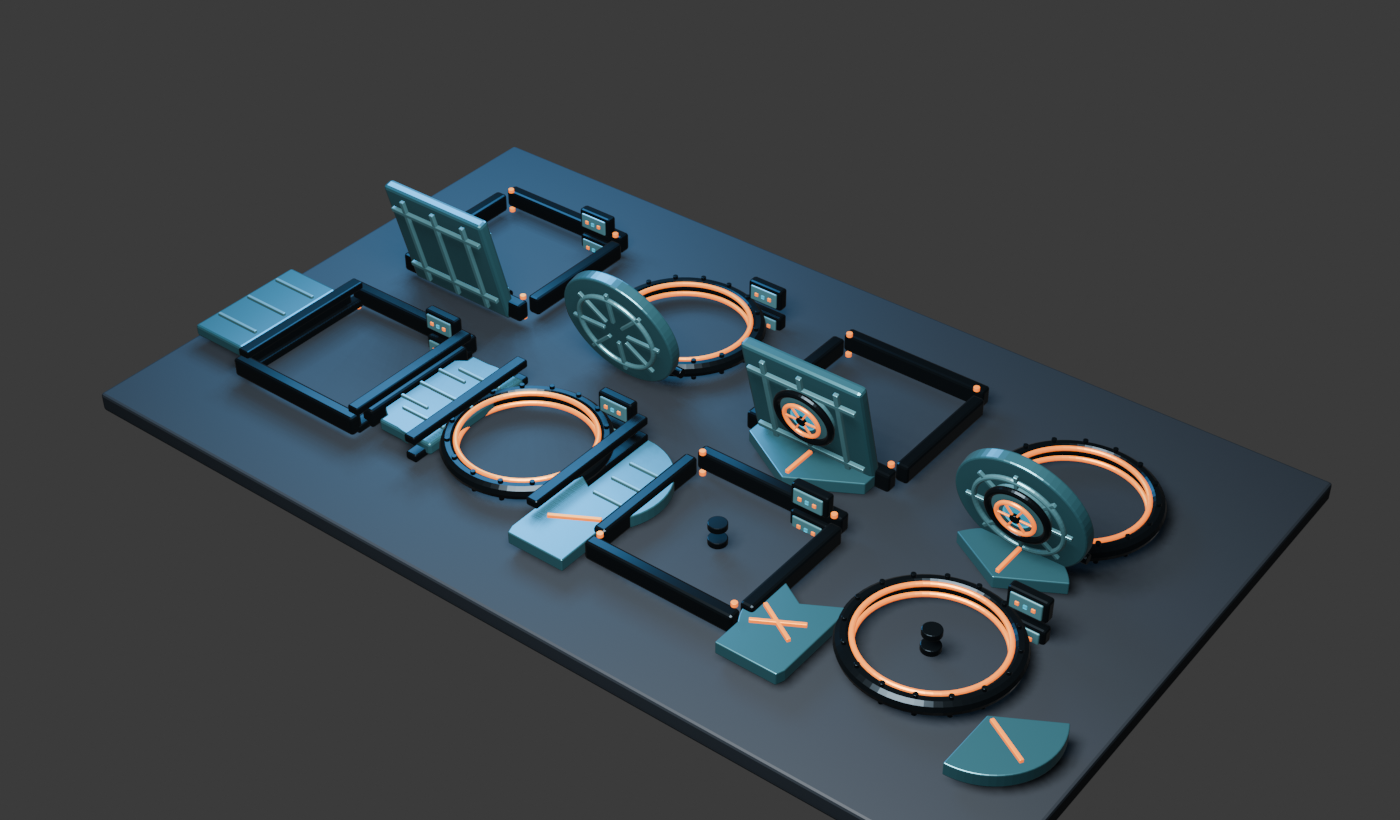
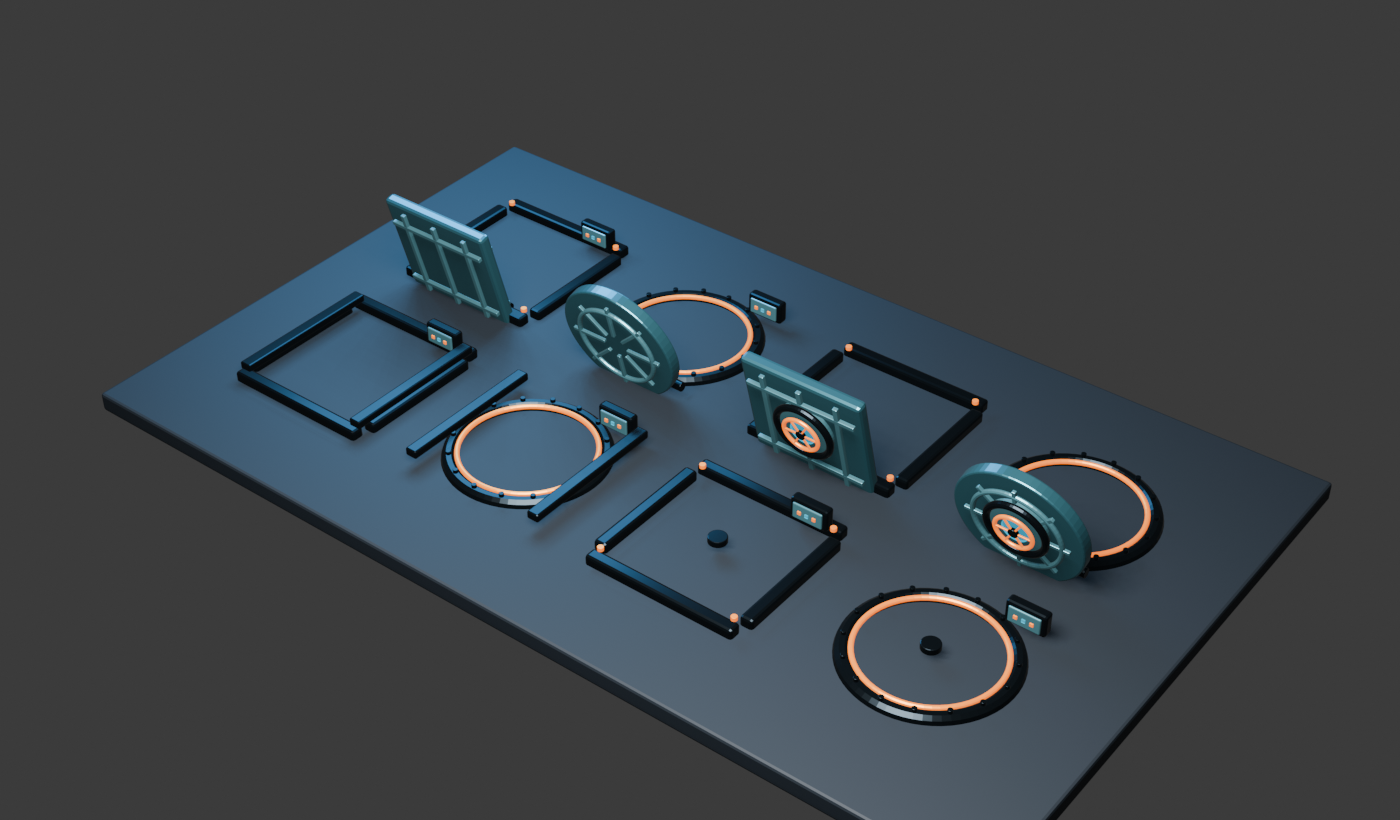
Session 162 - Ajuster les echelles et poches de trappes

Changed region(s): [[0.1229, 0.2134, 0.86, 0.9756]]

diff --git a/shared/world/verticalAccessGeometry.js b/shared/world/verticalAccessGeometry.js
@@ -2,6 +2,7 @@ const DEFAULT_STORY_HEIGHT = 2.5
 const DEFAULT_OPENING_SIZE = 1
 const CIRCLE_SEGMENTS = 48
 const LADDER_EDGE_INSET = 0.16
+const DEFAULT_LADDER_TOP_EXTENSION = 0.75
 
 const LADDER_ORIENTATIONS = Object.freeze([
   Object.freeze({ axis: 'x', side: -1 }),
@@ -55,6 +56,47 @@ export function ladderPlacementCenter(ladder, opening = null) {
   return {
     x: alongX ? x + width / 2 : x + (side > 0 ? width - inset : inset),
     z: alongX ? z + (side > 0 ? depth - inset : inset) : z + depth / 2,
+  }
+}
+
+export function ladderVisualTopY(ladder, {
+  linkedHatch = null,
+  openTopExtension = DEFAULT_LADDER_TOP_EXTENSION,
+} = {}) {
+  const bottomY = number(ladder?.y, Math.min(number(ladder?.fromY), number(ladder?.toY)))
+  const structuralTopY = Math.max(
+    bottomY,
+    number(ladder?.topY, bottomY),
+    number(ladder?.fromY, bottomY),
+    number(ladder?.toY, bottomY),
+  )
+  const hatchBottomY = Number(linkedHatch?.y)
+  if (Number.isFinite(hatchBottomY)) return Math.max(bottomY, hatchBottomY)
+  return structuralTopY + Math.max(0, number(openTopExtension, DEFAULT_LADDER_TOP_EXTENSION))
+}
+
+export function ladderVisualRange(ladder, {
+  linkedHatch = null,
+  displayLevel = null,
+  storyHeight = DEFAULT_STORY_HEIGHT,
+  openTopExtension = DEFAULT_LADDER_TOP_EXTENSION,
+} = {}) {
+  const bottomY = number(ladder?.y, Math.min(number(ladder?.fromY), number(ladder?.toY)))
+  const topY = ladderVisualTopY(ladder, { linkedHatch, openTopExtension })
+  const showsAllLevels = displayLevel === null || displayLevel === undefined
+  if (showsAllLevels) return topY > bottomY ? { bottomY, topY, height: topY - bottomY } : null
+  const level = Number(displayLevel)
+  if (!Number.isFinite(level)) return null
+  const levelHeight = positive(storyHeight, DEFAULT_STORY_HEIGHT)
+  const sliceBottom = level * levelHeight
+  const sliceTop = sliceBottom + levelHeight
+  const visibleBottomY = Math.max(bottomY, sliceBottom)
+  const visibleTopY = Math.min(topY, sliceTop)
+  if (visibleTopY <= visibleBottomY + 1e-6) return null
+  return {
+    bottomY: visibleBottomY,
+    topY: visibleTopY,
+    height: visibleTopY - visibleBottomY,
   }
 }
 

diff --git a/client/src/components/SurfaceDungeonScene.jsx b/client/src/components/SurfaceDungeonScene.jsx
@@ -48,6 +48,7 @@ import {
 } from '../../../shared/world/stairGeometry.js'
 import {
   ladderPlacementCenter,
+  ladderVisualRange,
   verticalAccessOpenings,
   verticalOpeningMultiPolygon,
 } from '../../../shared/world/verticalAccessGeometry.js'
@@ -1736,8 +1737,11 @@ function connectorDoorBox(connector) {
 function connectorAssetUrl(connector) {
   const rawUrl = connector?.modelGlbUrl
   if (!rawUrl) return null
+  const builtinVersion = connector?.type === 'hatch'
+    ? 'hatch-floor-pocket-20260722'
+    : 'door-model-refresh-20260709'
   const versionedUrl = rawUrl.startsWith('builtin-models/') && !rawUrl.includes('?')
-    ? `${rawUrl}?v=door-model-refresh-20260709`
+    ? `${rawUrl}?v=${builtinVersion}`
     : rawUrl
   if (/^https?:\/\//i.test(versionedUrl)) return versionedUrl
   return `${import.meta.env.VITE_API_URL}/api/assets/${versionedUrl}`
@@ -2218,7 +2222,7 @@ function HatchConnectorSegment({ connector, textureMaterials, opacity, selected 
   )
 }
 
-export function ConnectorSegment({ connector, curveWall = null, textureMaterials = {}, opacity = 1, selected = false, onPointerSelect = null, displayLevel = null }) {
+export function ConnectorSegment({ connector, linkedHatch = null, curveWall = null, textureMaterials = {}, opacity = 1, selected = false, onPointerSelect = null, displayLevel = null }) {
   const handlePointerDown = useCallback((event) => {
     if (!onPointerSelect || !connector?.id) return
     event.stopPropagation()
@@ -2316,22 +2320,20 @@ export function ConnectorSegment({ connector, curveWall = null, textureMaterials
   }
 
   if (connector.type === 'ladder') {
-    const fullY = Number(connector.y) || 0
-    const fullTopY = Number(connector.topY) || fullY + STORY_HEIGHT
-    const visualFullTopY = Math.max(fullY + 0.2, fullTopY - 0.07)
-    const sliceBottom = displayLevel === null ? -Infinity : displayLevel * STORY_HEIGHT
-    const sliceTop = displayLevel === null ? Infinity : sliceBottom + STORY_HEIGHT
-    const y = Math.max(fullY, sliceBottom)
-    let topY = Math.min(visualFullTopY, sliceTop)
-    if (topY <= y && displayLevel !== null && Math.abs(visualFullTopY - sliceBottom) < 0.01) {
-      topY = y + 0.12
-    }
-    const height = Math.max(0.2, topY - y)
+    const visualRange = ladderVisualRange(connector, {
+      linkedHatch,
+      displayLevel,
+      storyHeight: STORY_HEIGHT,
+    })
+    if (!visualRange) return null
+    const y = visualRange.bottomY
+    const height = visualRange.height
     const width = Math.max(0.2, Number(connector.width) || 0.7)
     const depth = Math.max(0.05, Number(connector.depth) || 0.12)
     const spacing = Math.max(0.1, Number(connector.anchorSpacing) || 0.5)
     const railThickness = Math.min(0.08, Math.max(0.035, width * 0.09))
-    const rungCount = Math.min(128, Math.max(2, Math.floor(height / spacing) + 1))
+    const usableRungHeight = Math.max(0, height - railThickness)
+    const rungCount = Math.min(128, Math.max(2, Math.floor(usableRungHeight / spacing) + 1))
     const ladderCenter = ladderPlacementCenter(connector)
     const centerX = ladderCenter.x
     const centerZ = ladderCenter.z
@@ -2369,11 +2371,11 @@ export function ConnectorSegment({ connector, curveWall = null, textureMaterials
           </mesh>
         ))}
         {Array.from({ length: rungCount }, (_, index) => {
-          const ratio = rungCount === 1 ? 0 : index / (rungCount - 1)
+          const ratio = rungCount === 1 ? 0.5 : index / (rungCount - 1)
           return (
             <mesh
               key={`rung-${index}`}
-              position={[centerX, y + ratio * height, centerZ]}
+              position={[centerX, y + railThickness / 2 + ratio * usableRungHeight, centerZ]}
               material={structureMaterial}
               castShadow
               receiveShadow
@@ -2810,6 +2812,11 @@ function SurfaceDungeonScene({
     [surface.connectors],
   )
   const verticalOpenings = useMemo(() => verticalAccessOpenings(surface), [surface])
+  const hatchesByLadderId = useMemo(() => new Map(
+    Object.values(surface.connectors)
+      .filter(connector => connector?.type === 'hatch' && connector?.linkedLadderId)
+      .map(connector => [String(connector.linkedLadderId), connector]),
+  ), [surface.connectors])
   const horizontalConnectorOpenings = useMemo(() => [
     ...skylights.map(connector => ({
       shape: 'rectangle',
@@ -3055,6 +3062,7 @@ function SurfaceDungeonScene({
             ...connector,
             runtimeState: runtimeFeatureStates[connector?.worldId || id] || null,
           }}
+          linkedHatch={connector?.type === 'ladder' ? hatchesByLadderId.get(String(id)) || null : null}
           curveWall={connector?.curveId ? curveWallsById.get(connector.curveId) || null : null}
           textureMaterials={textureMaterials}
           opacity={1}

diff --git a/client/src/components/SurfaceEditorScene.jsx b/client/src/components/SurfaceEditorScene.jsx
@@ -581,6 +581,7 @@ function ConnectorPreview({ drag, surfaceData, surfaceTool }) {
       <group>
         <ConnectorSegment
           connector={{ id: 'connector-preview', ...connector }}
+          linkedHatch={hatch}
           opacity={0.68}
           displayLevel={Number(connector.level) || 0}
         />

diff --git a/tools/generate_vertical_access_hatches.py b/tools/generate_vertical_access_hatches.py
@@ -16,6 +16,7 @@ OUT = ROOT / "output" / "vertical_access_hatches"
 GLB_DIR = OUT / "glb"
 DEG = math.pi / 180.0
 OPEN_FRAME = 60
+SLIDING_POCKET_DROP = 0.16
 
 ASSETS = [
     ("01_square_hinged_armored", "Trappe carrée blindée battante", "rectangle", "hinged", False),
@@ -293,7 +294,10 @@ def animate_slide(obj, asset_name, index, delta):
     obj.location = start
     obj.keyframe_insert(data_path="location", frame=1)
     bpy.context.scene.frame_set(OPEN_FRAME)
-    obj.location = (start.x + delta[0], start.y + delta[1], start.z - 0.035)
+    # Les panneaux ouverts coulissent dans une poche sous le plancher. Leur face supérieure finit
+    # sous le dessus de la dalle : la géométrie du sol les masque naturellement, comme un vantail
+    # de porte escamoté dans son mur.
+    obj.location = (start.x + delta[0], start.y + delta[1], start.z - SLIDING_POCKET_DROP)
     obj.keyframe_insert(data_path="location", frame=OPEN_FRAME)
     if obj.animation_data and obj.animation_data.action:
         obj.animation_data.action.name = f"open_{asset_name}_panel_{index + 1}"
@@ -418,7 +422,7 @@ def editor_slots(asset_name):
 def configure_preview(records, pack_collection):
     for index, record in enumerate(records):
         row, column = divmod(index, 4)
-        record["root"].location = ((column - 1.5) * 1.55, (0.5 - row) * 1.65, 0.02)
+        record["root"].location = ((column - 1.5) * 1.55, (0.5 - row) * 1.65, -0.09)
     floor_mat = material("Preview_Floor", (0.022, 0.03, 0.04), 0.15, 0.58)
     box(pack_collection, None, "Preview_Floor", (0, 0, -0.09), (7.0, 4.2, 0.14), floor_mat, 0.02)
     bpy.ops.object.light_add(type="AREA", location=(1.5, -3.5, 6.5))
@@ -496,7 +500,10 @@ def main():
             "height_m": 0.38,
             "opening_shape": shape,
             "opening_mechanism": mechanism,
-            "features": ["service-hatch", "dual-sided-operation"] if has_service_hatch else ["dual-sided-edge-controls"],
+            "features": (
+                ["service-hatch", "dual-sided-operation"] if has_service_hatch
+                else ["dual-sided-edge-controls"]
+            ) + (["floor-pocketed-panels"] if mechanism.startswith("sliding") else []),
             "openable": True,
             "allowed_states": ["closed", "open", "locked"],
             "editor_color_slots": editor_slots(asset_name),
@@ -516,7 +523,9 @@ def main():
         "Catalogue moteur de huit trappes animées : chaque mécanisme existe en version carrée et ronde. "
         "Les modèles 03 et 04 possèdent une écoutille de service intégrée sans boîtier séparé. "
         "Toutes les feuilles sont détaillées dessus et dessous ; les autres modèles portent des commandes "
-        "verticales intégrées à la rive, accessibles depuis les deux niveaux.\n\n"
+        "verticales intégrées à la rive, accessibles depuis les deux niveaux. Les panneaux des "
+        "modèles coulissants descendent dans une poche sous la dalle et sont masqués par le sol "
+        "une fois ouverts.\n\n"
         "Le footprint de 1 × 1 décrit exclusivement la trémie canonique ; aucun boîtier mural ne dépasse.\n",
         encoding="utf-8",
     )

diff --git a/output/vertical_access_hatches/README.md b/output/vertical_access_hatches/README.md
@@ -1,5 +1,5 @@
 # Trappes d’accès vertical
 
-Catalogue moteur de huit trappes animées : chaque mécanisme existe en version carrée et ronde. Les modèles 03 et 04 possèdent une écoutille de service intégrée sans boîtier séparé. Toutes les feuilles sont détaillées dessus et dessous ; les autres modèles portent des commandes verticales intégrées à la rive, accessibles depuis les deux niveaux.
+Catalogue moteur de huit trappes animées : chaque mécanisme existe en version carrée et ronde. Les modèles 03 et 04 possèdent une écoutille de service intégrée sans boîtier séparé. Toutes les feuilles sont détaillées dessus et dessous ; les autres modèles portent des commandes verticales intégrées à la rive, accessibles depuis les deux niveaux. Les panneaux des modèles coulissants descendent dans une poche sous la dalle et sont masqués par le sol une fois ouverts.
 
 Le footprint de 1 × 1 décrit exclusivement la trémie canonique ; aucun boîtier mural ne dépasse.